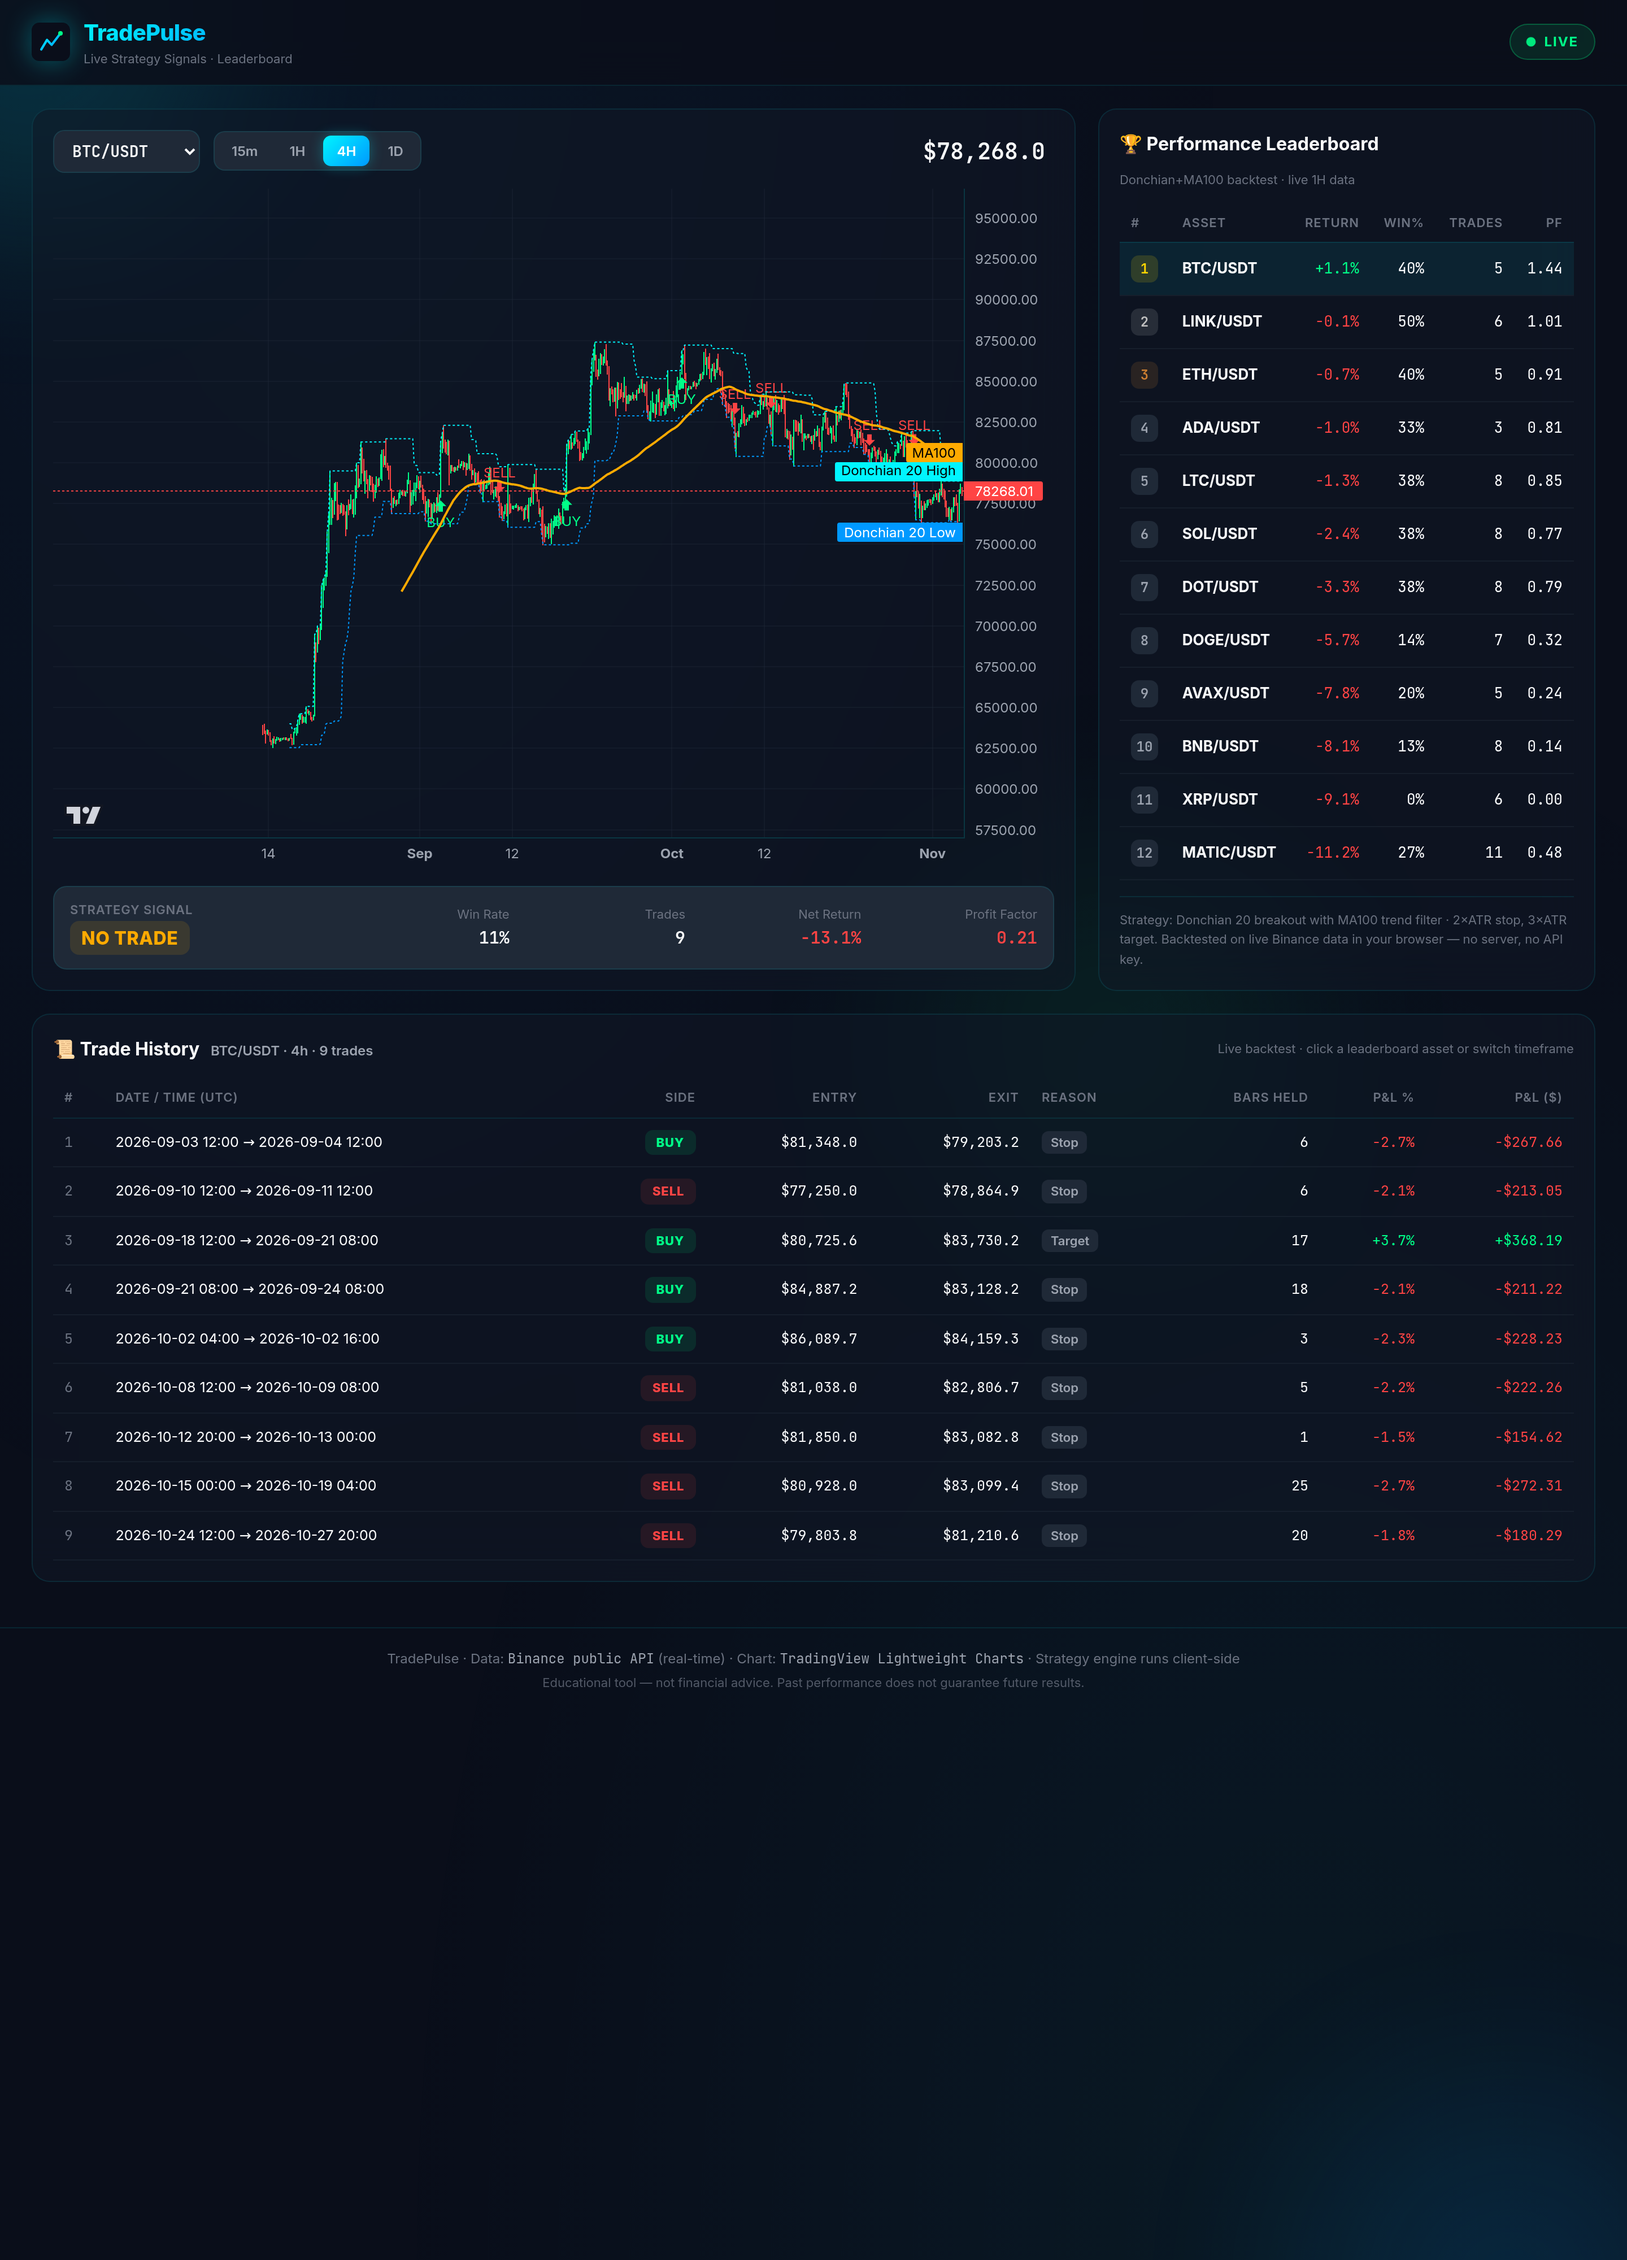
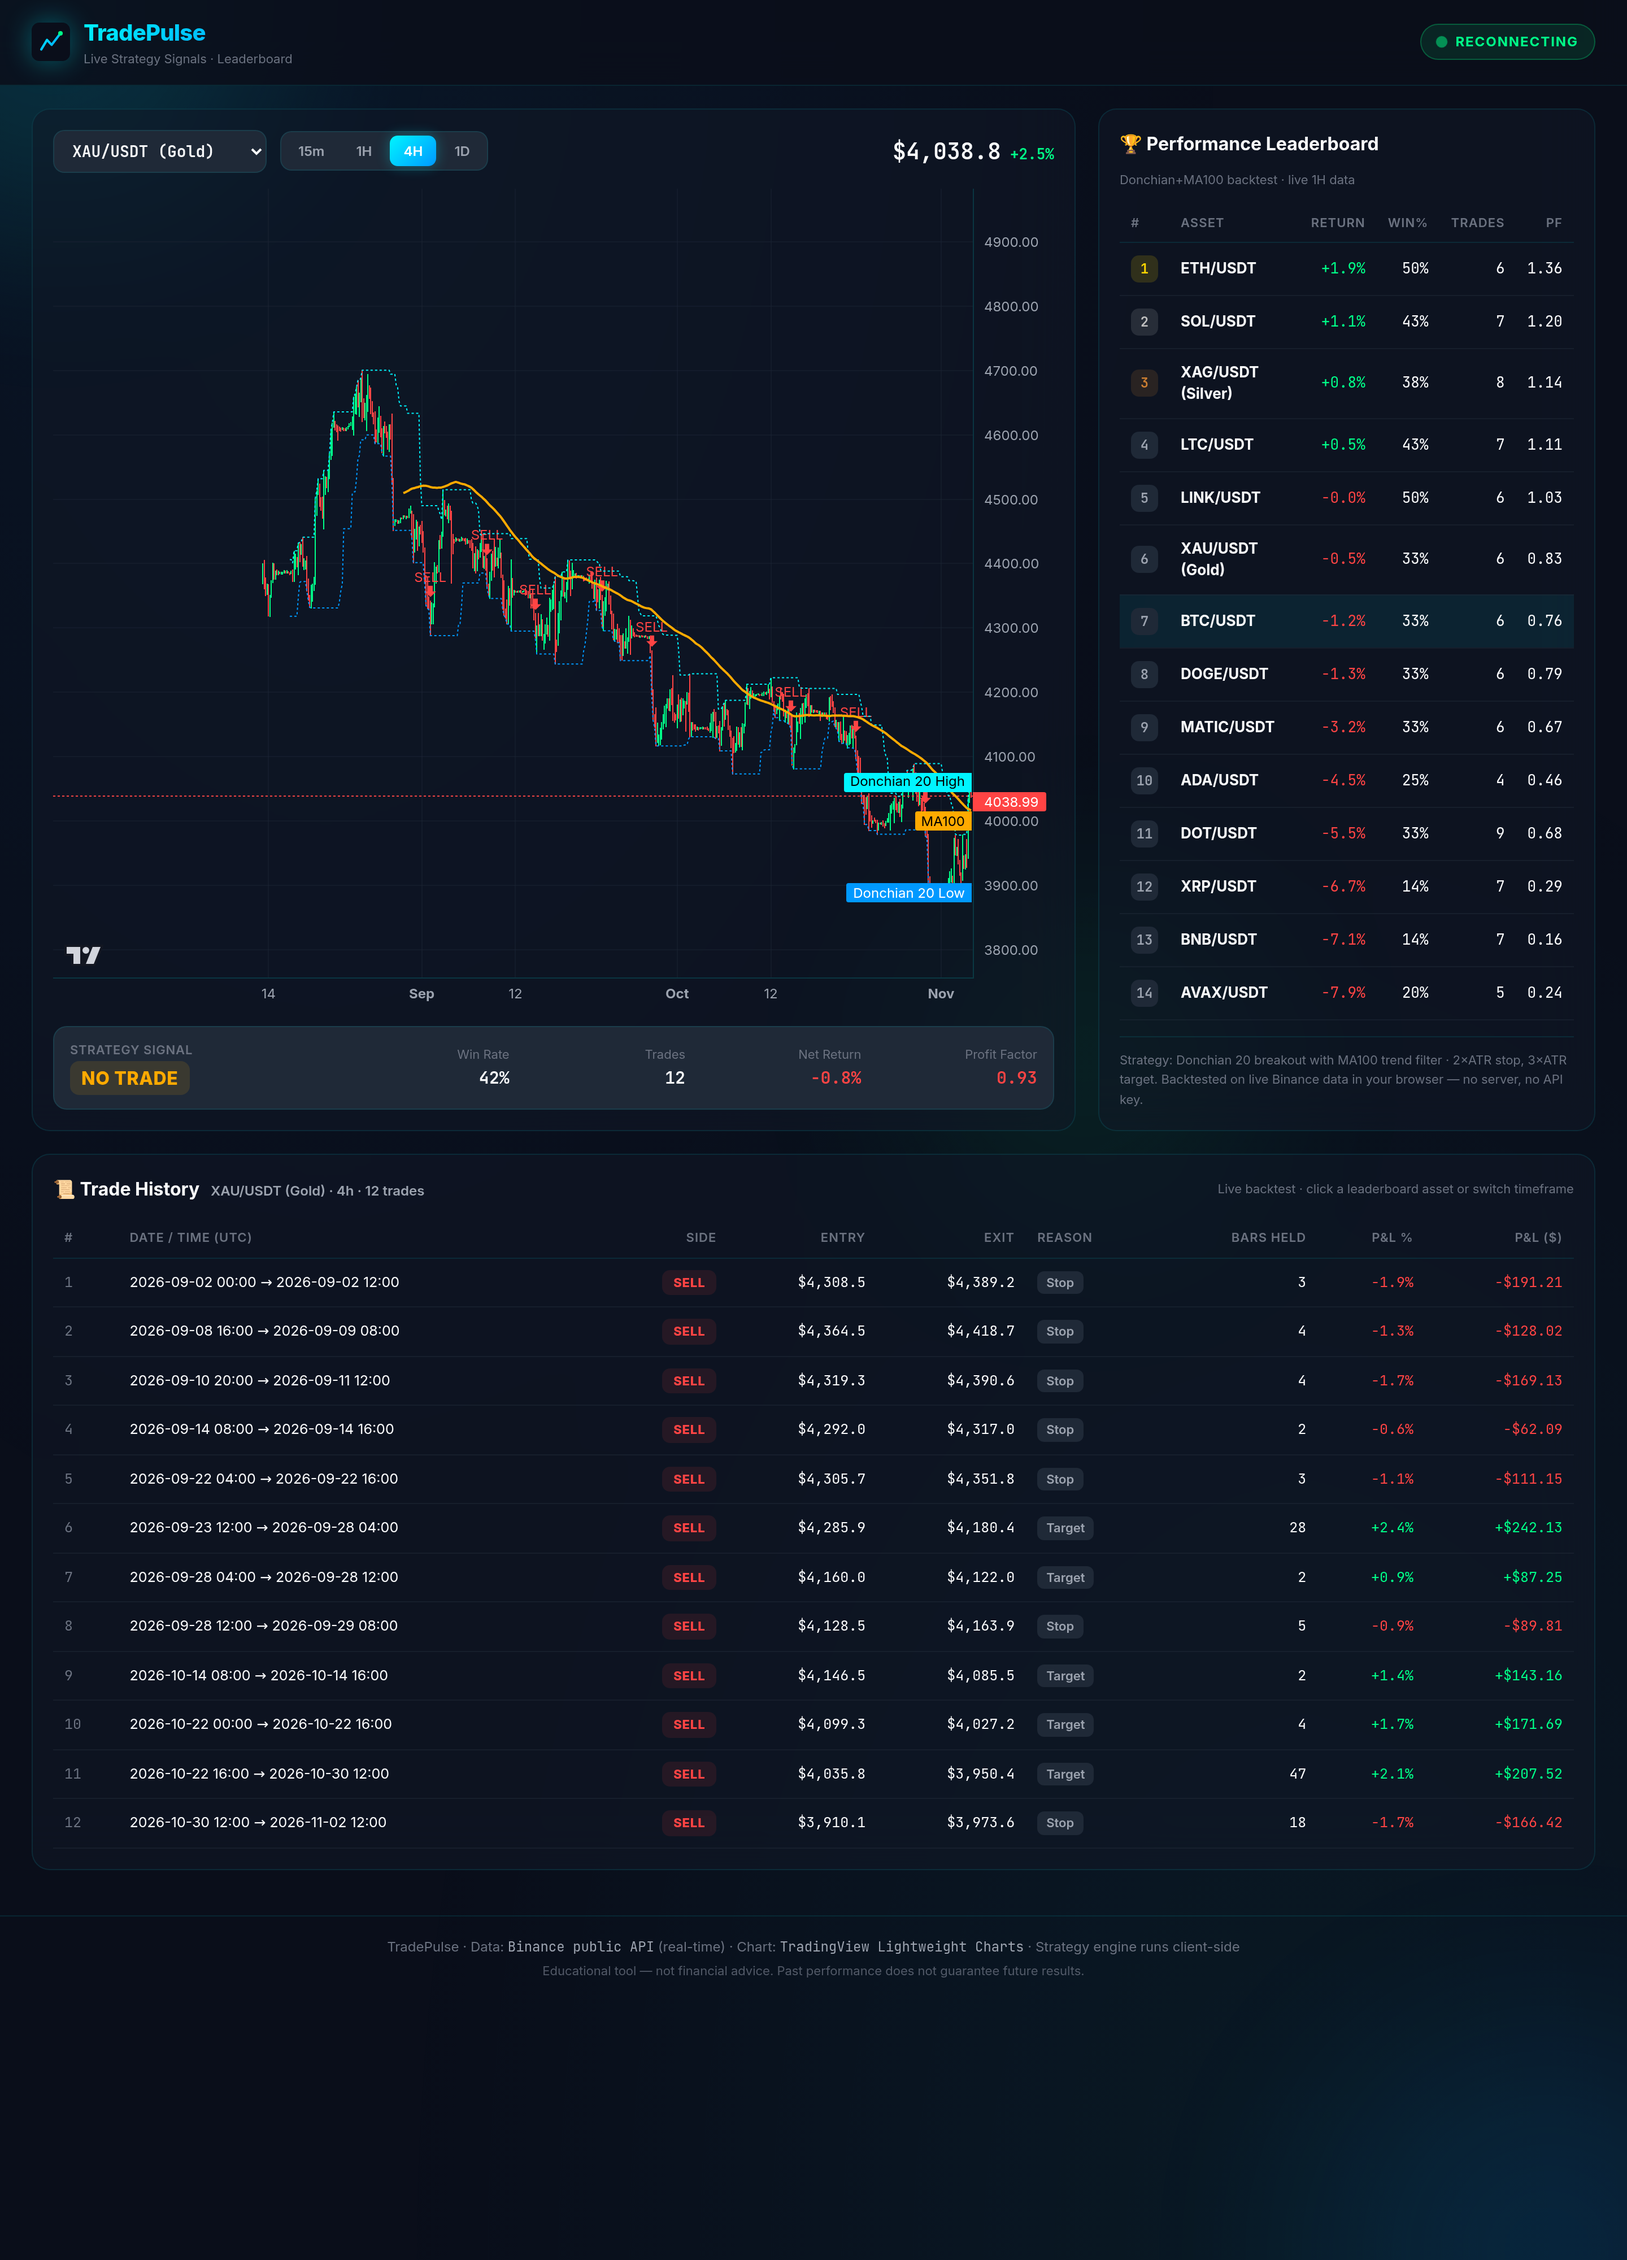
Update README: futures data, gold/silver, 14 assets

diff --git a/README.md b/README.md
@@ -10,8 +10,9 @@ Real-time crypto chart (TradingView Lightweight Charts) with **Donchian 20 + MA1
 - 🎯 **Strategy signals** — Donchian 20 breakout with MA100 trend filter; BUY/SELL markers on the chart
 - 📊 **Live strategy stats** — win rate, trades, net return, profit factor (computed on closed bars)
 - 📜 **Trade history** — every closed trade with date/time, buy/sell side, entry, exit, exit reason, and P&L; click a leaderboard asset to load its history
-- 🏆 **Leaderboard** — 12 assets ranked by strategy backtest return on live 1H data; click a row to load that chart
-- 🔄 **Asset + timeframe switcher** — BTC, ETH, SOL, BNB, XRP, ADA, DOGE, AVAX, LINK, LTC, DOT, MATIC · 15m/1H/4H/1D
+- 🏆 **Leaderboard** — 14 assets ranked by strategy backtest return on live 1H data; click a row to load that chart
+- 🔄 **Asset + timeframe switcher** — BTC, ETH, SOL, **XAU (Gold)**, **XAG (Silver)**, BNB, XRP, ADA, DOGE, AVAX, LINK, LTC, DOT, MATIC · 15m/1H/4H/1D
+- ⚡ **Perpetual futures data** (Binance USDT-M) — trades futures, not spot
 
 ## Screenshots (from live site)
 
@@ -29,9 +30,9 @@ Mobile:
 
 ## Data
 
-- REST: `https://api.binance.com/api/v3/klines` (history)
-- WebSocket: `wss://stream.binance.com:9443/ws/<sym>@kline_<tf>` (live)
-- Public Binance API — no key required, CORS-open
+- REST: `https://fapi.binance.com/fapi/v1/klines` (perpetual futures history)
+- WebSocket: `wss://fstream.binance.com/ws/<sym>@kline_<tf>` (live)
+- Public Binance USDT-M futures API — no key required, CORS-open
 
 ## Run locally
 
